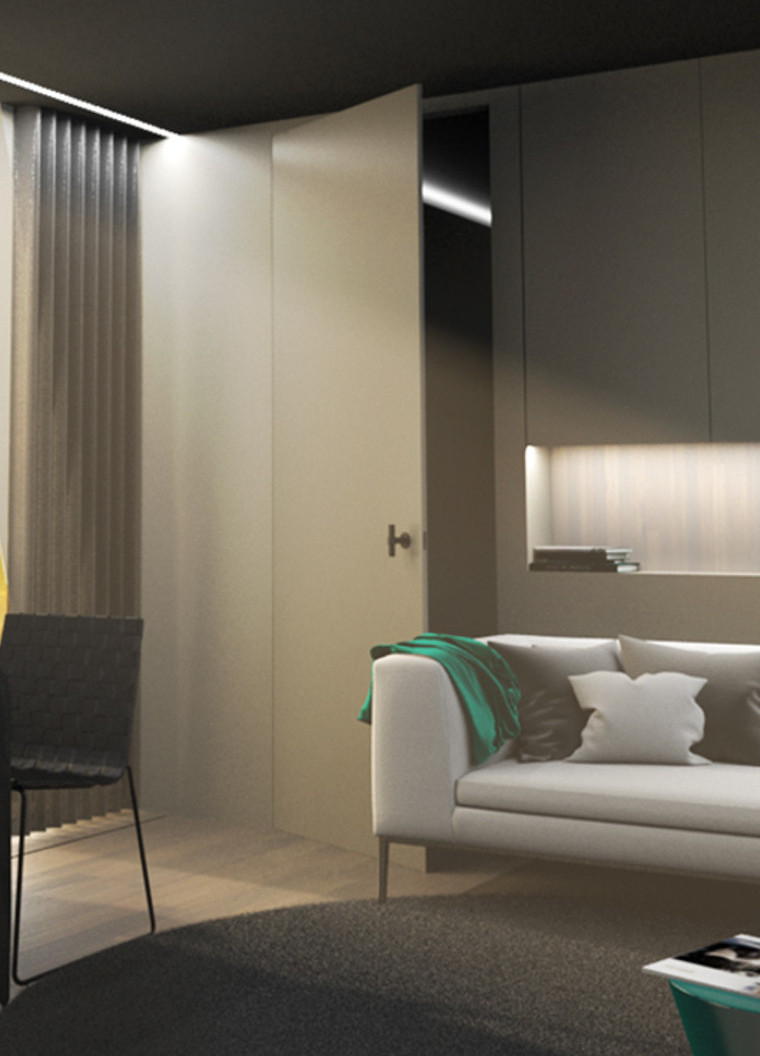
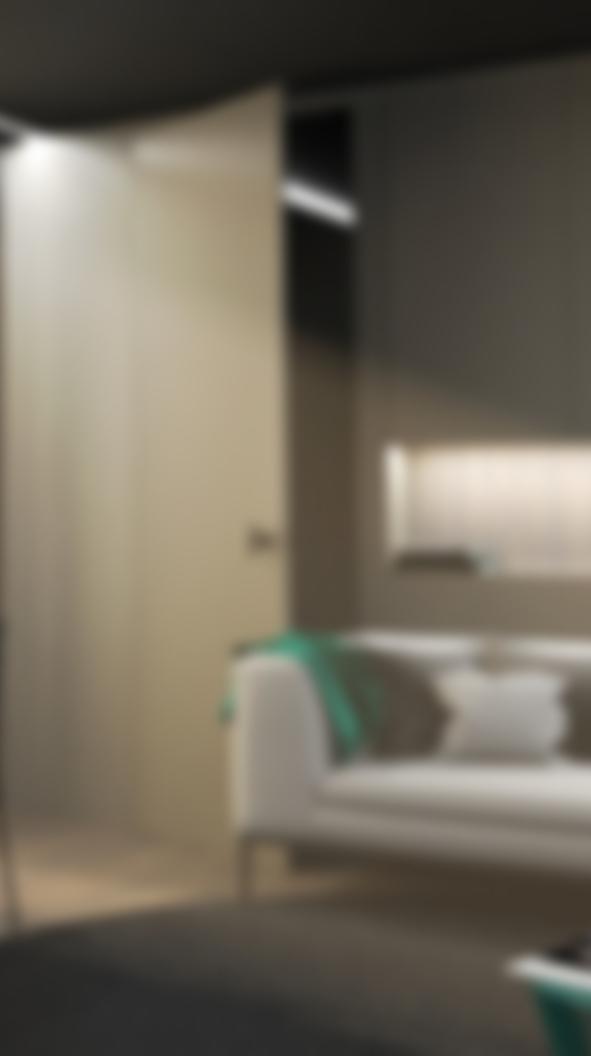
change picture

diff --git a/index.html b/index.html
@@ -78,7 +78,7 @@
       <div class="display_sm nodisplay_lg mb-5">
         <div id="owl-1-2" class="owl-carousel owl-theme">
           <div class="item overlay">
-            <img class="display_sm" src="images/backgroundmobiletest.jpg">
+            <img class="display_sm" src="images/backgroundmobile.jpg">
             <p class="overlay_text">Reinventing architecture.</p>
          
           </div>
